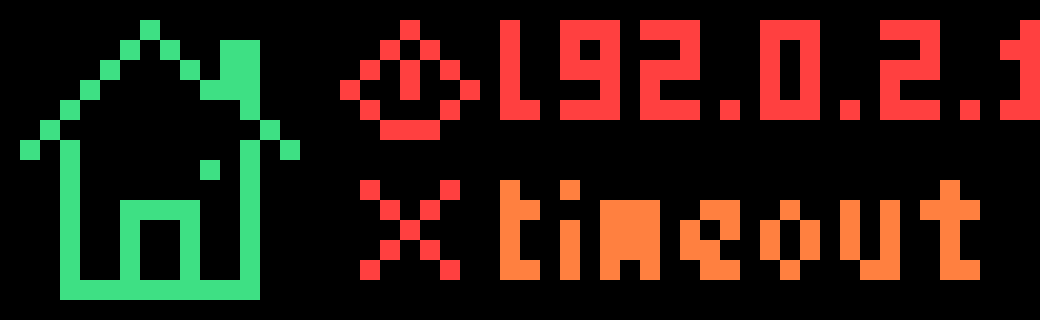
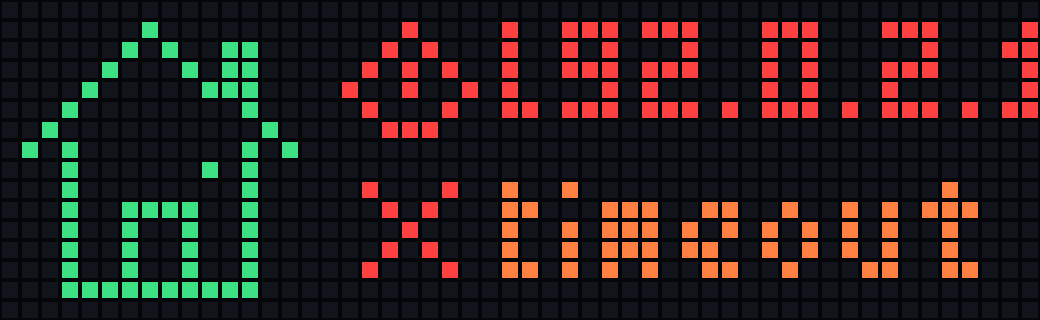
Fixed documentation

diff --git a/docs/hub-description.md b/docs/hub-description.md
@@ -1,0 +1,234 @@
+# NetworkMonitor
+
+Keep an eye on your network from your AWTRIX NG clock. NetworkMonitor checks TCP services and HTTP endpoints, shows your public IP address, and cycles through a network overview, active failures, and per-host response history.
+
+**Platform:** Ulanzi TC002 · **Display:** 52 × 16 · **Version:** 0.27
+
+**Authors:** Dr-Dream / ChatGPT / Codex
+
+**GitHub:** [Dr-Dream/AwtrixNetworkMonitor](https://github.com/Dr-Dream/AwtrixNetworkMonitor)
+
+## Features
+
+- Separate, comma-separated lists for TCP services and HTTP/HTTPS URLs.
+- Public IPv4/IPv6 address retrieval through `http://ifconfig.me` by default.
+- Three pages: HOME, ALERTS, and NODES.
+- Colored results, failure reasons, response times, and a rolling history graph.
+- Automatic page rotation or manual navigation with the knob.
+- Optional animated instance icons: house, VPN shield, server, WiFi, database, and cloud.
+- Configurable colors, intervals, timeouts, scrolling, and page timing.
+- Background checks continue while another app is displayed. No external icon downloads are required.
+
+## Screens
+
+The diagrams below explain the layout; they are not exact pixel or font reproductions. Long labels scroll inside their own text area. Page names such as HOME are documentation labels, not additional titles drawn on the clock.
+
+### HOME — network overview
+
+```text
++--------------------------------------------------+
+| [house]  203.0.113.42                             |
+|          8 / 1 / 2                               |
++--------------------------------------------------+
+           OK  FAIL WAIT
+```
+
+The upper line shows the public IP address beside the small HOME pictogram. The lower line shows counts of successful, failed, and pending TCP/HTTP targets, in that order. Public IP status is separate from these counts.
+
+- Before the first valid IP: `...`, or `!` after a failed request.
+- After a failed refresh: the last valid address followed by `!`.
+- While refreshing a known address: the address followed by `...`.
+
+The lower counters use the full available interface width; their indentation above only makes the diagram easier to read.
+
+### ALERTS — what needs attention
+
+```text
++--------------------------------------------------+
+| [alert]  https://example.com/health                |
+|   [X]    HTTP 503  1/2                            |
++--------------------------------------------------+
+```
+
+Only failed targets appear here. The first line shows the target; the second shows the failure reason and its position in the failure list. The upper pictogram and lower cross identify an alert; the cross pulses. The page is skipped when there are no failed targets.
+
+Examples of failure reasons include `HTTP 503`, `Network error`, `timeout`, `refused`, and `dns`; TCP reason strings come from the firmware.
+
+### NODES — individual targets and history
+
+```text
++--------------------------------------------------+
+| [TCP]  example.com:443  42ms                      |
+|        .  : . | :  . : | .                       |
++--------------------------------------------------+
+         older --------------------------> newer
+```
+
+The upper line shows a small TCP or HTTP pictogram, the target, and its result in one scrolling line. A successful result is a time in milliseconds; `ERR` means failure, and `--` means no completed result yet. A trailing `...` marks a check in progress while the last completed result remains visible.
+
+The graph fills the lower half of the available interface area:
+
+- One completed check occupies one pixel column.
+- Successful checks are green by default; bar height is scaled to the largest successful response time in the retained history.
+- Failed checks are full-height red bars.
+- Oldest samples appear on the left; newest samples appear on the right. Once full, the graph drops the oldest sample.
+- With no samples, a dim baseline is shown. With no configured targets, the page displays `--` and `0 targets`.
+
+The graph is drawn directly below the header across the full available width; the sketch uses punctuation only to suggest bars.
+
+### Optional instance icon
+
+Use different icons and colors to distinguish multiple installed copies, such as home, office, and VPN monitoring.
+
+```text
++--------------+-----------------------------------+
+|              | [page]  target or public IP        |
+|   INSTANCE   |                                   |
+|     ICON     | counters, failure reason or graph  |
+|              |                                   |
++--------------+-----------------------------------+
+```
+
+The large icon stays on the left on every page. All original page/protocol pictograms remain visible to its right. On TC002, the default icon area is 14 × 14 pixels, with a one-pixel left margin, a one-pixel gap before the interface, and vertical centering. Disabling the icon restores the original full-width layout.
+
+Available choices: `home`, `shield` (VPN), `server`, `wifi`, `database`, and `cloud`. These identify the script instance; choosing a shield does not add a VPN check.
+
+![House, VPN shield, server, WiFi, database and cloud — device captures](https://raw.githubusercontent.com/Dr-Dream/AwtrixNetworkMonitor/main/docs/icons-device-0.27.png)
+
+## Controls and page rotation
+
+| Control / mode | Behavior |
+| --- | --- |
+| Middle/select button | Requests a new node scan and public IP refresh after the current operation finishes. |
+| `auto` mode | HOME → ALERTS if needed → NODES if enabled → next app in the device rotation. |
+| `manual` mode | Turn the knob left or right to change pages. Entries within a page still advance automatically. |
+
+Each entry stays for at least **Minimum entry duration**. Long text gets time to scroll, bounded by **Scroll wait limit**. In automatic mode, NetworkMonitor holds the app rotation while it shows its entries. A long target list can therefore take considerably longer than one page duration.
+
+## Quick setup
+
+1. Install NetworkMonitor from AWTRIX Hub, or add the complete `NetworkMonitor.ax` source in the web interface's **Scripts** tab.
+2. Open **Apps → your installed script → gear**.
+3. Set **TCP hosts** and/or **HTTP URLs** independently. Both lists are empty by default.
+4. Optionally enable an instance icon and choose its shape and color.
+5. Save. The app restarts and begins collecting fresh results.
+
+Example TCP hosts:
+
+```text
+192.168.1.1:80,example.com:443,nas.local:445
+```
+
+Example HTTP URLs:
+
+```text
+https://example.com/health,http://192.168.1.10:8080/status
+```
+
+Spaces around entries are allowed. TCP entries require an explicit port from 1 to 65535. HTTP entries require a complete `http://` or `https://` URL. Encode commas within URLs as `%2C`. Invalid entries are skipped and logged.
+
+To monitor separate groups, install the source under different script names and configure each copy independently.
+
+## Configuration
+
+All settings are available in the app's gear menu. Defaults below apply to a new installation; updates preserve existing saved values. Saving settings restarts the app and clears collected results and history.
+
+### Monitoring
+
+| Setting | Default | Description |
+| --- | --- | --- |
+| **TCP hosts** (`tcphosts`) | Empty | Comma-separated `host:port` entries; maximum 256 characters. A successful connection means OK; it is closed immediately. |
+| **HTTP URLs** (`httphosts`) | Empty | Comma-separated complete URLs; maximum 512 characters. Final HTTP status 200–299 means OK. Response content is not checked. |
+| **Public IP URL** (`ipurl`) | `http://ifconfig.me` | Endpoint returning only an IPv4/IPv6 address, with optional surrounding whitespace; maximum 256 characters. |
+| **Check interval** (`interval`) | 60 s | Delay after a complete node scan finishes; 30–600 s. |
+| **Public IP refresh** (`wanperiod`) | 300 s | Delay after a public IP request completes; 60–3600 s. |
+| **TCP timeout** (`tcp_timeout`) | 4 s | Connection timeout; 1–30 s. |
+| **HTTP timeout** (`http_timeout`) | 5 s | HTTP request timeout; 1–30 s. Firmware queueing and DNS have additional limits. |
+| **Show NODES page** (`show_nodes`) | On | Include per-target results and history in the page sequence. |
+
+### Display
+
+| Setting | Default | Description |
+| --- | --- | --- |
+| **Page mode** (`mode`) | `auto` | `auto` or `manual`; see controls above. |
+| **Minimum entry duration** (`pagetime`) | 5 s | Minimum time for HOME or one target entry, not an entire target list; 2–30 s. |
+| **Scroll wait limit** (`scrollwait`) | 60 s | Maximum wait per entry; 10–180 s. The effective limit is at least the minimum entry duration. |
+| **Scroll speed** (`scrollspeed`) | 65% | Scrolling speed; 10–300%. Firmware base speed at 100% is 21 pixels/s. |
+| **Scroll gap** (`scrollgap`) | 10 px | Gap between scrolling repeats; 0–100 px. |
+| **Scroll start delay** (`scrollhold`) | 500 ms | Pause before scrolling begins; 0–5000 ms. |
+| **Hold after knob input** (`manualhold`) | 20 s | Hold after the last manual knob turn; 10–180 s. When it expires, the device advances to the next app. |
+| **Manual display duration** (`manualtime`) | 30 s | Normal app dwell time in manual mode before knob interaction; 5–180 s. |
+
+### Icon
+
+| Setting | Default | Description |
+| --- | --- | --- |
+| **Show instance icon** (`show_icon`) | Off | Add the large identifier to the left of every page. |
+| **Instance icon** (`icon_kind`) | `home` | `home`, `shield`, `server`, `wifi`, `database`, or `cloud`. |
+| **Icon color** (`icon_color`) | `#40B8E0` | Independent of check status and the smaller pictogram colors. |
+| **Animate icon** (`icon_animate`) | On | Animate icon details; WiFi pulses wave brightness and the cloud moves gently. Off keeps a static symbol. |
+| **Icon left margin** (`icon_left`) | 1 px | Blank space before the large icon; 1–4 px. |
+| **Icon inset** (`icon_inset`) | 1 px | Vertical inset on each edge; 0–2 px. TC002 sizes: 16 × 16 at 0, 14 × 14 at 1, 12 × 12 at 2. |
+| **Animation frame duration** (`icon_step`) | 350 ms | Duration of one of four animation phases; 100–2000 ms. |
+
+The history capacity follows the remaining interface width: 52 samples per target without an instance icon, or 36 with default icon settings. Changing margins or icon size also changes that capacity.
+
+### Colors
+
+| Setting | Default | Used for |
+| --- | --- | --- |
+| **Success** (`color_ok`) | `#40D080` | Successful results, active OK count, and successful history bars. |
+| **Failure** (`color_fail`) | `#FF4040` | Failed results, alerts, active failure count, and failed history bars. |
+| **Pending** (`color_wait`) | `#FFD040` | Pending results and active pending count. |
+| **TCP icon and activity** (`color_info`) | `#40B8E0` | TCP pictogram, activity indicator, and public IP refresh state. |
+| **HTTP icon** (`color_http`) | `#B080FF` | HTTP pictogram on NODES. |
+| **Text** (`color_text`) | `#FFFFFF` | Normal target text, public IP text, and counter separators. |
+| **Inactive status** (`color_dim`) | `#888888` | Zero counters and inactive status. |
+| **Failure reason** (`color_reason`) | `#FF8040` | Failure details on ALERTS. |
+| **Empty history** (`color_empty`) | `#404040` | Baseline before a target has history samples. |
+
+## Compatibility and check behavior
+
+NetworkMonitor requires **AWTRIX NG on TC002**, including the `tcp` scripting capability. It does not target AWTRIX 3 or ESP32-based TC001 firmware.
+
+TCP checks test whether a connection can be established. HTTP checks test the final HTTP status and follow redirects according to firmware rules. Displayed times include request processing and queueing; they are not ICMP ping measurements. Checks run sequentially, with no automatic retries within a scan. Public IP retrieval is separate from node status and takes priority when due.
+
+No API key or external icon pack is required. Do not include passwords or tokens in monitored URLs: URLs appear on screen and in logs.
+
+Version 0.27 was compiled and run on TC002 with AWTRIX NG 1.2.3. All six instance icons were checked through the device framebuffer. This verification does not cover every network failure mode or firmware version.
+
+Complete source: [NetworkMonitor.ax](https://github.com/Dr-Dream/AwtrixNetworkMonitor/blob/main/NetworkMonitor.ax). Implementation details: [architecture](https://github.com/Dr-Dream/AwtrixNetworkMonitor/blob/main/docs/architecture.md).
+
+## Screenshots and animation
+
+[Downloadable PNG screenshots and animated GIF](https://github.com/Dr-Dream/AwtrixNetworkMonitor/blob/main/docs/media/README.md) show real device captures made with temporary demonstration hosts. The original host configuration was restored after recording.
+
+Screenshots and animation use a visible LED grid with dark gaps between pixels, preserving the captured pixel layout and lit colors.
+
+### HOME
+
+| Without instance icon | With instance icon |
+| --- | --- |
+| <img src="https://raw.githubusercontent.com/Dr-Dream/AwtrixNetworkMonitor/main/docs/media/home.png" alt="HOME without an instance icon" width="416"> | <img src="https://raw.githubusercontent.com/Dr-Dream/AwtrixNetworkMonitor/main/docs/media/home-with-icon.png" alt="HOME with an instance icon" width="416"> |
+
+### ALERTS
+
+| Without instance icon | With instance icon |
+| --- | --- |
+| <img src="https://raw.githubusercontent.com/Dr-Dream/AwtrixNetworkMonitor/main/docs/media/alerts.png" alt="ALERTS without an instance icon" width="416"> | <img src="https://raw.githubusercontent.com/Dr-Dream/AwtrixNetworkMonitor/main/docs/media/alerts-with-icon.png" alt="ALERTS with an instance icon" width="416"> |
+
+### NODES — TCP
+
+| Without instance icon | With instance icon |
+| --- | --- |
+| <img src="https://raw.githubusercontent.com/Dr-Dream/AwtrixNetworkMonitor/main/docs/media/nodes-tcp.png" alt="NODES — TCP without an instance icon" width="416"> | <img src="https://raw.githubusercontent.com/Dr-Dream/AwtrixNetworkMonitor/main/docs/media/nodes-tcp-with-icon.png" alt="NODES — TCP with an instance icon" width="416"> |
+
+### NODES — HTTP
+
+| Without instance icon | With instance icon |
+| --- | --- |
+| <img src="https://raw.githubusercontent.com/Dr-Dream/AwtrixNetworkMonitor/main/docs/media/nodes-http.png" alt="NODES — HTTP without an instance icon" width="416"> | <img src="https://raw.githubusercontent.com/Dr-Dream/AwtrixNetworkMonitor/main/docs/media/nodes-http-with-icon.png" alt="NODES — HTTP with an instance icon" width="416"> |
+
+### Animated demonstration
+
+<img src="https://raw.githubusercontent.com/Dr-Dream/AwtrixNetworkMonitor/main/docs/media/networkmonitor-demo.gif" alt="NetworkMonitor page demonstration" width="520">

diff --git a/README.md b/README.md
@@ -6,6 +6,8 @@ Keep an eye on your network from your AWTRIX NG clock. NetworkMonitor checks TCP
 
 **Authors:** Dr-Dream / ChatGPT / Codex
 
+**GitHub:** [Dr-Dream/AwtrixNetworkMonitor](https://github.com/Dr-Dream/AwtrixNetworkMonitor)
+
 ## Features
 
 - Separate, comma-separated lists for TCP services and HTTP/HTTPS URLs.
@@ -200,6 +202,8 @@ Complete source: [NetworkMonitor.ax](NetworkMonitor.ax). Implementation details:
 ## Screenshots and animation
 
 [Downloadable PNG screenshots and animated GIF](docs/media/README.md) show real device captures made with temporary demonstration hosts. The original host configuration was restored after recording.
+
+Screenshots and animation use a visible LED grid with dark gaps between pixels, preserving the captured pixel layout and lit colors.
 
 ### HOME
 

diff --git a/docs/media/README.md b/docs/media/README.md
@@ -1,6 +1,6 @@
 # AWTRIX Hub media
 
-These images were captured from the real 52×16 TC002 framebuffer running NetworkMonitor 0.27. Screenshots are enlarged 20× with nearest-neighbor scaling to **1040×320**, without smoothing, added labels, or fabricated results.
+These images were captured from the real 52×16 TC002 framebuffer running NetworkMonitor 0.27. Screenshots are rendered at **1040×320** with a visible LED matrix: each source pixel occupies a 20×20 cell with a 16×16 LED face and dark gaps. Unlit cells use a dim neutral face so the grid remains visible. Lit-pixel colors and positions are preserved, without smoothing, added labels, or fabricated results. The same presentation is applied to the GIF.
 
 ## Files
 
